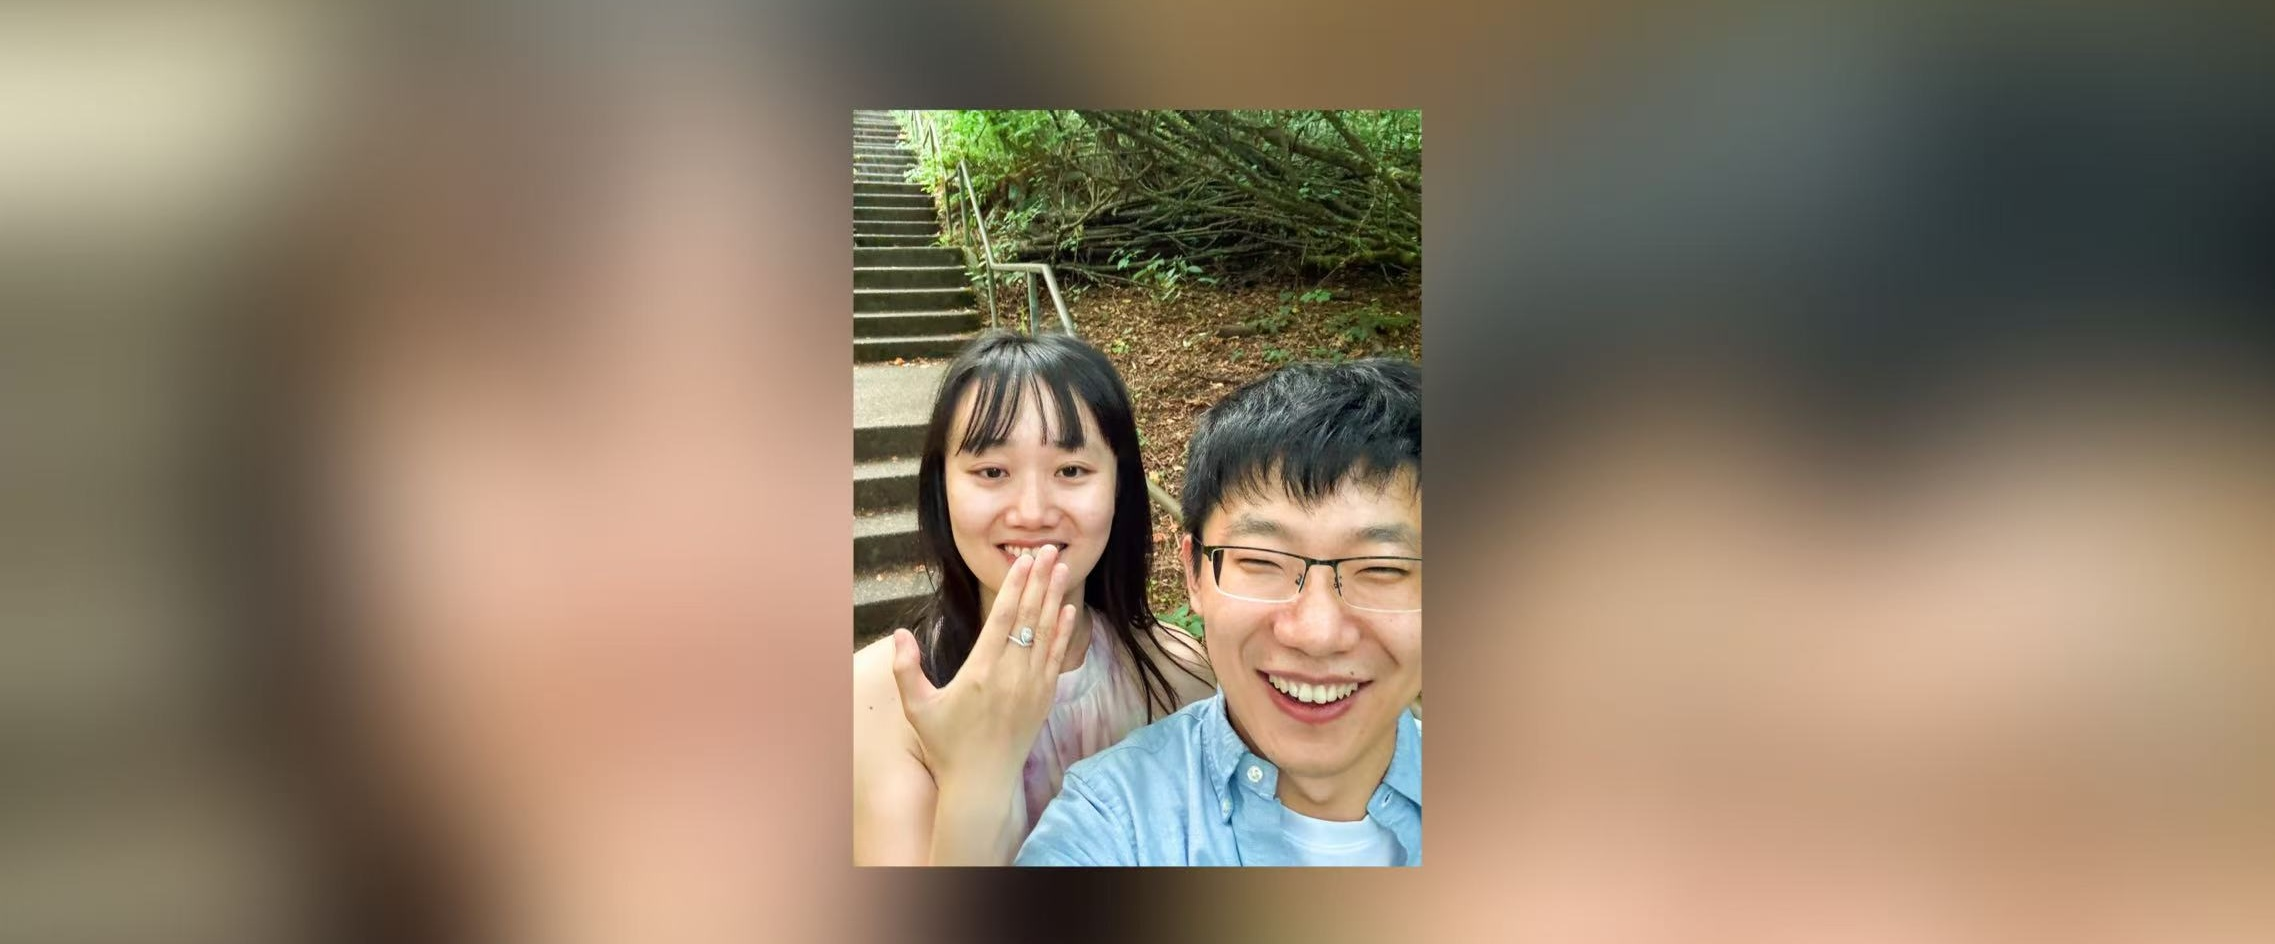
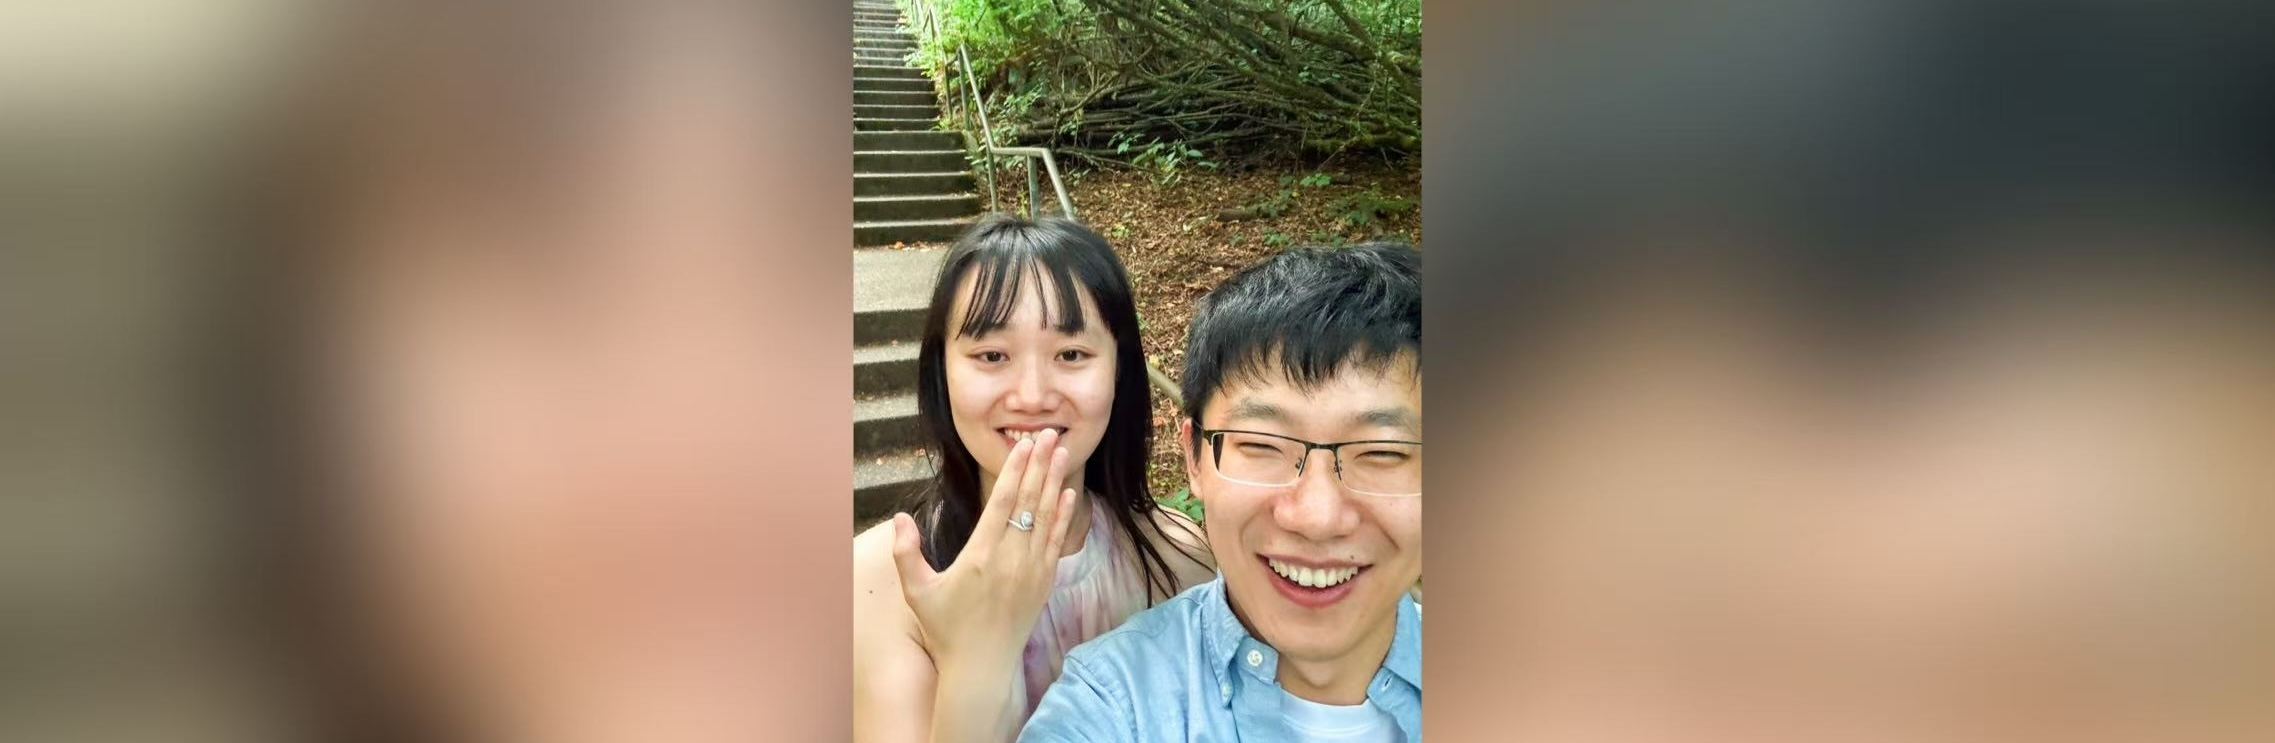
images2

diff --git a/agenda.md b/agenda.md
@@ -1,6 +1,6 @@
 ---
 title: Agenda
-feature_image: "../assets/images/universal.png"
+feature_image: "../assets/images/universal_kuo.jpg"
 image: "../assets/images/sweden-aperol.jpg"
 ---
 
